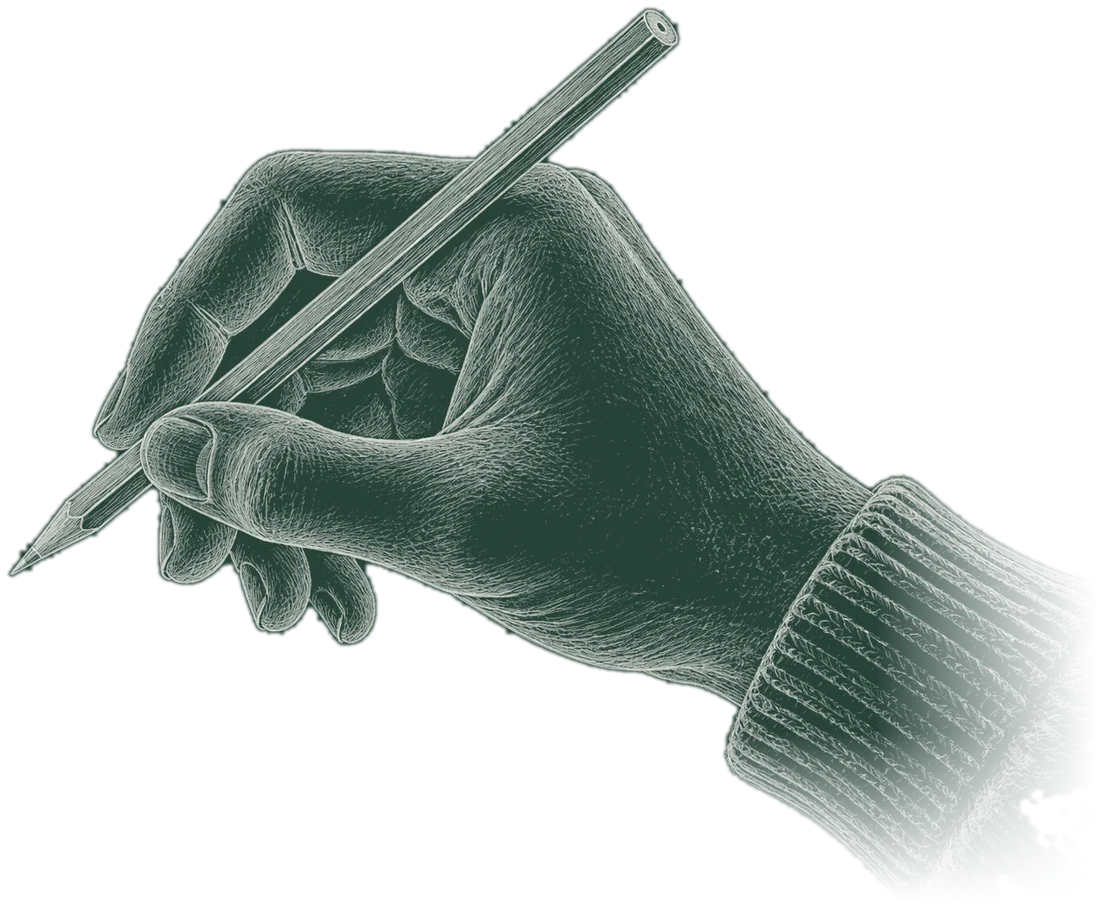
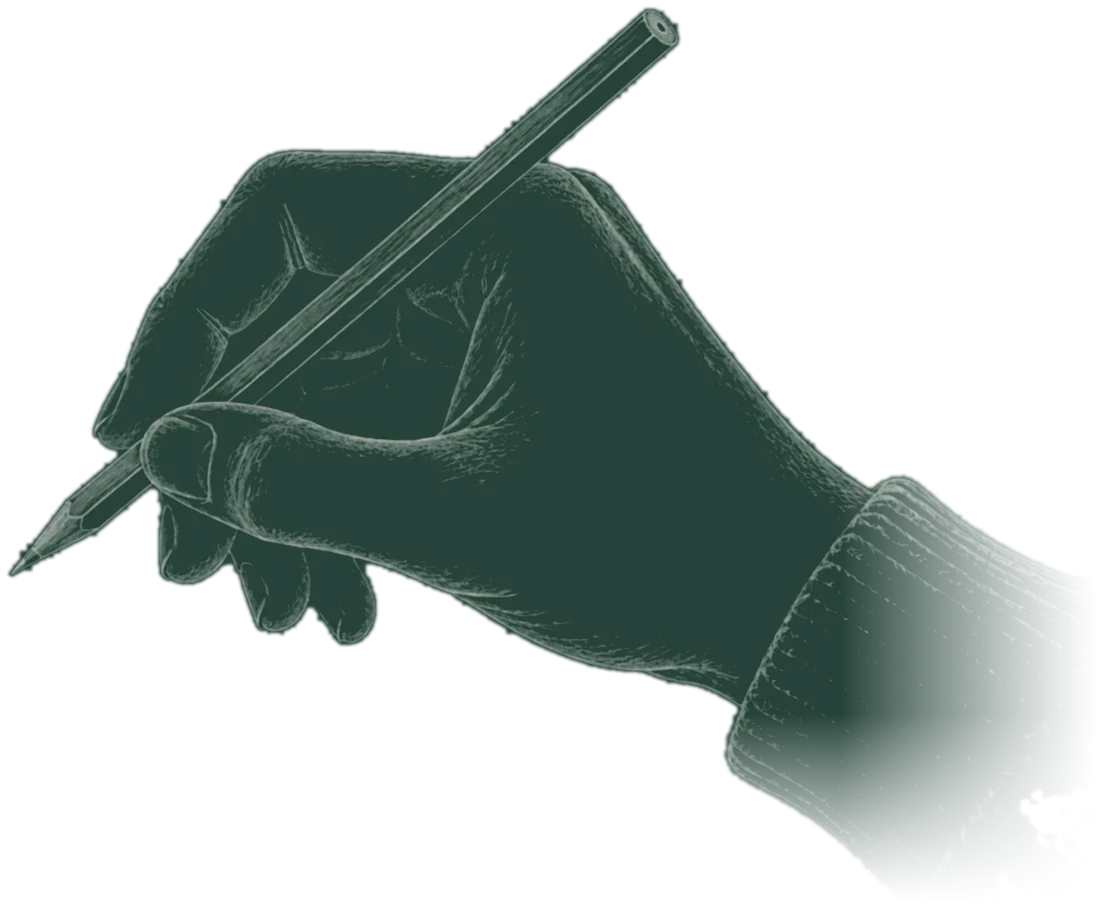
행정 표지: 그림 전체를 줄이고(약 70%), 손은 더 작고 잔주름 없이 부드럽게, 찻잔은 종이 가까이로 낮춤 — office-sketch.js ?v=20261002small

Changed region(s): [[0.0, 0.0, 0.8964, 0.9292]]

diff --git a/js/office-sketch.js b/js/office-sketch.js
@@ -69,7 +69,7 @@
   }
 
   /* ---- 찻잔과 받침(그림 전체 좌표) ---- */
-  const CX = 765, CY = 150;
+  const CX = 792, CY = 204;
   curve(cup, arc(CX, CY + 62, 104, 33, 0, 360, 28), { t: 0.7, dur: 0.7, op: [0.5, 0.8] });                 // 받침
   curve(cup, arc(CX, CY + 60, 62, 18, 20, 160, 10), { passes: 1, t: 0.9, dur: 0.4, op: [0.3, 0.5] });       // 받침 안쪽 선
   curve(cup, arc(CX, CY, 60, 19, 0, 360, 24), { t: 1.0, dur: 0.6, w: [1.1, 1.6] });                          // 잔 입
@@ -105,10 +105,10 @@
   // 연필을 쥔 손: 연필 스케치 그림(images/office-hand.webp — 크림색 선, 바탕은 투명, 소매 끝은 서서히 사라짐).
   // 그림 안에서 연필 끝은 (13, 570) / 1100×904 이고, 그 점이 (0,0)에 오도록 놓는다.
   // (처음에는 점을 찍어 선으로 그렸으나 손 모양이 어색하다는 말씀에 그림으로 바꿈)
-  const HS = 0.48;
-  const PEN = `<image class="pen-body" href="images/office-hand.webp?v=20261002" x="${f(-13 * HS)}" y="${f(-570 * HS)}" width="${f(1100 * HS)}" height="${f(904 * HS)}" preserveAspectRatio="none"/>`;
+  const HS = 0.34;
+  const PEN = `<image class="pen-body" href="images/office-hand.webp?v=20261002b" x="${f(-13 * HS)}" y="${f(-570 * HS)}" width="${f(1100 * HS)}" height="${f(904 * HS)}" preserveAspectRatio="none"/>`;
 
-  const svg = `<svg class="msk ph-pen" viewBox="0 0 900 1000" preserveAspectRatio="xMidYMax meet" aria-hidden="true" focusable="false">
+  const svg = `<svg class="msk ph-pen" viewBox="-190 -330 1280 1422" preserveAspectRatio="xMidYMax meet" aria-hidden="true" focusable="false">
     <defs>
       <filter id="penGrain" x="-5%" y="-5%" width="110%" height="110%">
         <feTurbulence type="fractalNoise" baseFrequency=".9" numOctaves="2" seed="7" result="n"/>
@@ -137,7 +137,7 @@
   const pen = el.querySelector(".pen-move");
 
   /* ---- 써 내려가는 움직임 ---- */
-  const REST = [300, 600], START = [640, 820];    // 다 쓰고 손이 쉬는 자리, 처음 들어오는 자리(종이 밖 오른쪽 아래)
+  const REST = [330, 560], START = [660, 800];    // 다 쓰고 손이 쉬는 자리, 처음 들어오는 자리(종이 밖 오른쪽 아래)
   let widths = LINES.map((l) => l.text.length * l.size * 0.5), raf = 0;
   function measure() {
     tnodes.forEach((t, i) => { try { const w = t.getComputedTextLength(); if (w > 10) widths[i] = w; } catch (e) {} });

diff --git a/office.html b/office.html
@@ -142,7 +142,7 @@
     </div>
   </section>
 
-  <script src="js/office-sketch.js?v=20261002hand"></script>
+  <script src="js/office-sketch.js?v=20261002small"></script>
   <script src="js/church.js?v=20260926denom"></script>
   <script src="js/brand.js?v=1"></script>
   <script src="js/config.js?v=20260730lib13"></script>
